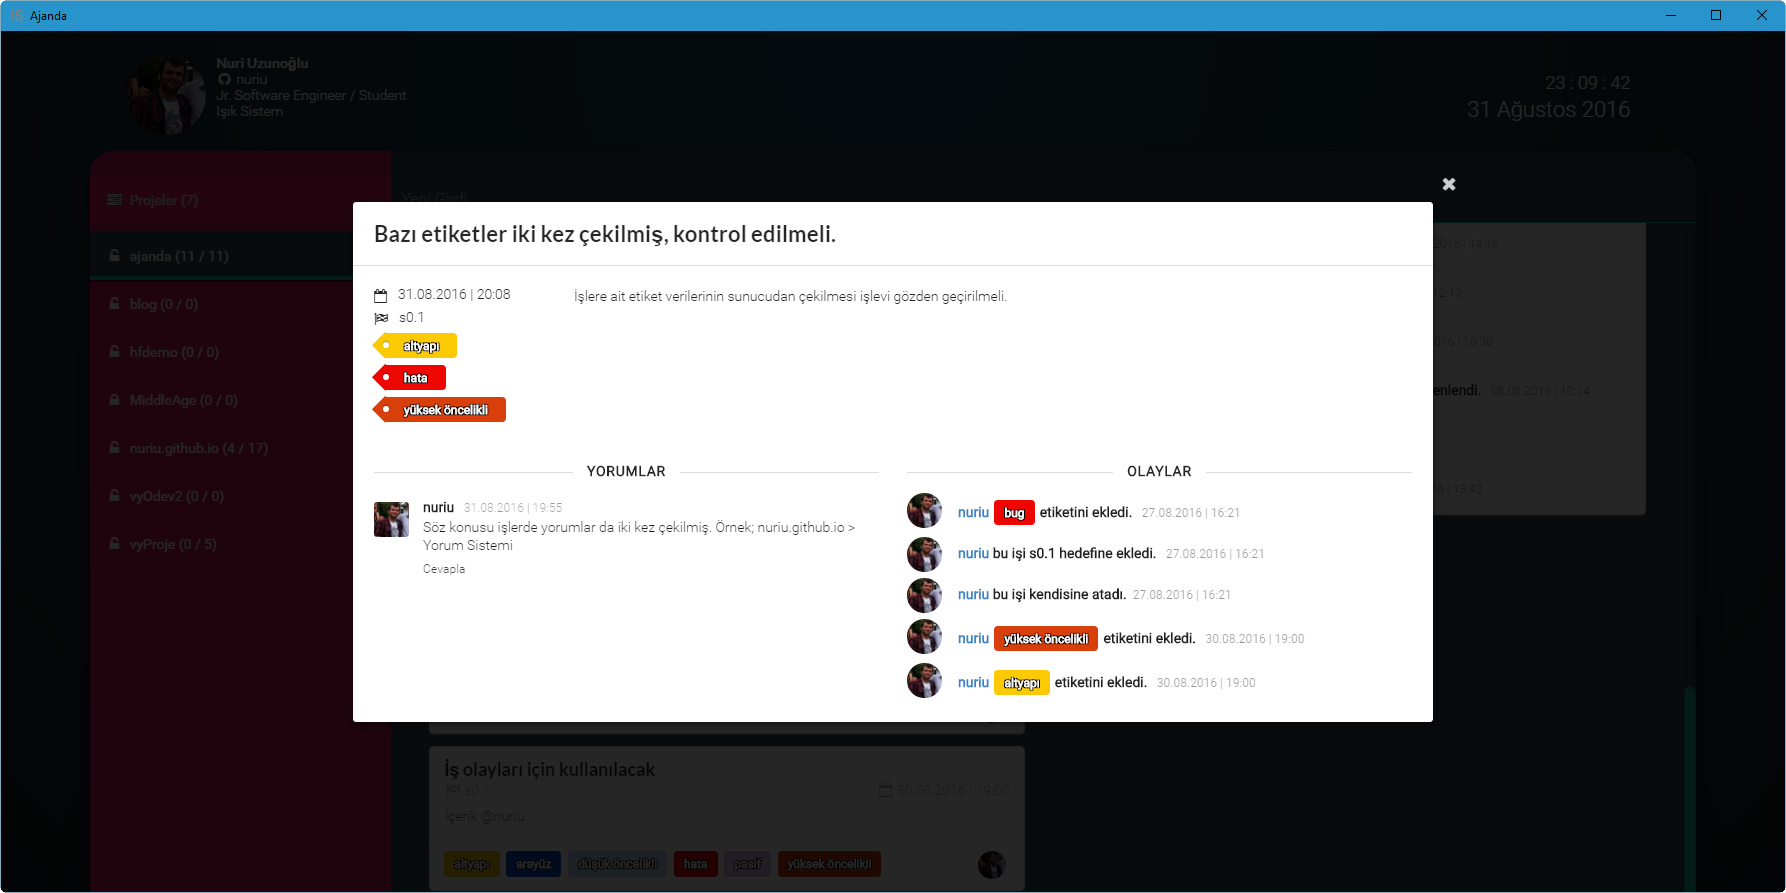
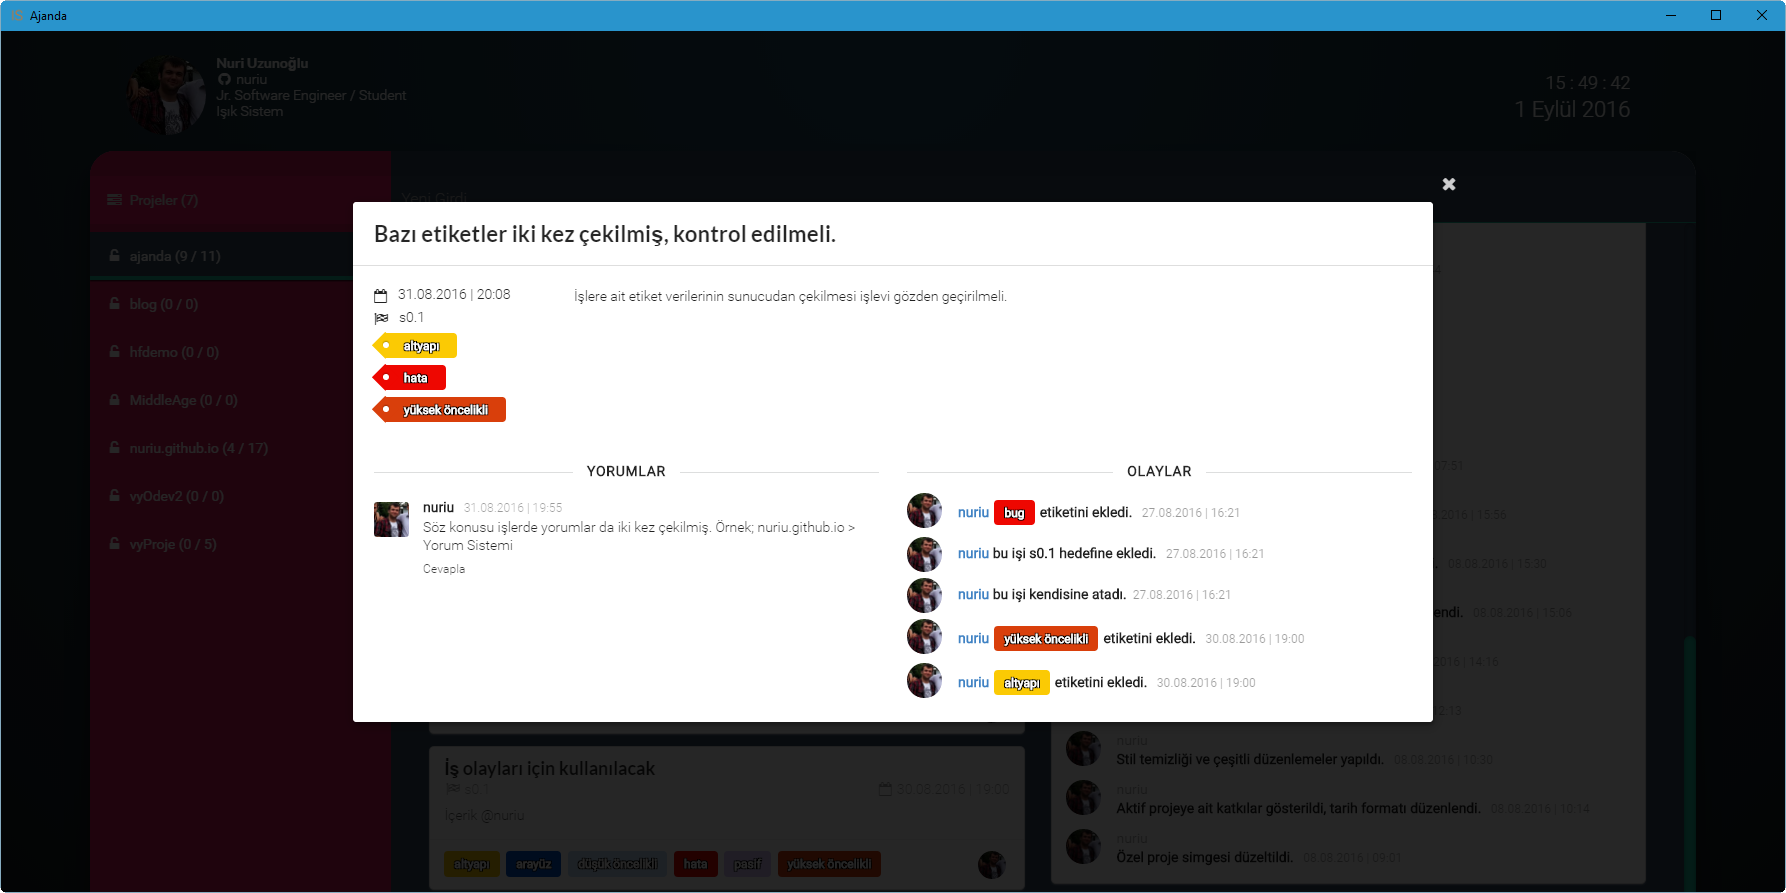
:white_check_mark: İşe ait veri çekimindeki hata düzeltildi.
Fixes #2

Changed region(s): [[0.5851, 0.5745, 0.9239, 0.9978]]

diff --git a/app/src/veri.ts b/app/src/veri.ts
@@ -98,8 +98,10 @@ function gitHubtanTokenIste(secenekler: any, kod: any) {
         client_secret: secenekler.istemci_sir,
         code: kod,
     }).done(function (icerik: string, durum: string) {
+        /* token
         console.log(durum);
         console.log(icerik.slice(icerik.search("=") + 1, icerik.search("&")));
+        */
 
         if (durum === "success") {
             window.localStorage.setItem("githubtoken", icerik.slice(icerik.search("=") + 1, icerik.search("&")));
@@ -162,7 +164,7 @@ function isBilgileriniAl() {
             });
         }, 4000);
 
-        console.log(KULLANICI.Projeler[i]);
+        // console.log(KULLANICI.Projeler[i]);
     }
 }
 
@@ -199,25 +201,27 @@ function acikIslerinBilgileriniAl(proje: Proje) {
                         new GithubTarihi(isler[j].milestone.closed_at)
                     );
                 } else {
-                    if (isler[j].milestone.state === "open") {
-                        proje.Isler[j].Hedef = new Hedef(
-                            isler[j].milestone.title,
-                            isler[j].milestone.number,
-                            "Kapalı",
-                            isler[j].milestone.creator.login,
-                            isler[j].milestone.description,
-                            isler[j].milestone.open_issues,
-                            isler[j].milestone.closed_issues,
-                            new GithubTarihi(isler[j].milestone.due_on),
-                            new GithubTarihi(isler[j].milestone.created_at),
-                            new GithubTarihi(isler[j].milestone.updated_at),
-                            new GithubTarihi(isler[j].milestone.closed_at)
-                        );
-                    }
-
+                    proje.Isler[j].Hedef = new Hedef(
+                        isler[j].milestone.title,
+                        isler[j].milestone.number,
+                        "Kapalı",
+                        isler[j].milestone.creator.login,
+                        isler[j].milestone.description,
+                        isler[j].milestone.open_issues,
+                        isler[j].milestone.closed_issues,
+                        new GithubTarihi(isler[j].milestone.due_on),
+                        new GithubTarihi(isler[j].milestone.created_at),
+                        new GithubTarihi(isler[j].milestone.updated_at),
+                        new GithubTarihi(isler[j].milestone.closed_at)
+                    );
                 }
+            }
 
+            if (proje.Isler[j].Yorumlar.length < 1) {
                 iseAitYorumlariAl(proje.Isler[j]);
+            }
+
+            if (proje.Isler[j].Olaylar.length < 1) {
                 iseAitOlaylariAl(proje.Isler[j]);
             }
         }
@@ -235,7 +239,7 @@ function kapaliIslerinBilgileriniAl(proje: Proje) {
 
             // Etiketler
             for (let k = 0; k < isler[j].labels.length; k++) {
-                proje.Isler[j].Etiketler.push(
+                proje.Isler[proje.Isler.length - 1].Etiketler.push(
                     new Etiket(proje.Isler[j], isler[j].labels[k].name, isler[j].labels[k].color)
                 );
             }
@@ -243,7 +247,7 @@ function kapaliIslerinBilgileriniAl(proje: Proje) {
             // Hedef
             if (isler[j].milestone) {
                 if (isler[j].milestone.state === "open") {
-                    proje.Isler[j].Hedef = new Hedef(
+                    proje.Isler[proje.Isler.length - 1].Hedef = new Hedef(
                         isler[j].milestone.title,
                         isler[j].milestone.number,
                         "Açık",
@@ -257,27 +261,29 @@ function kapaliIslerinBilgileriniAl(proje: Proje) {
                         new GithubTarihi(isler[j].milestone.closed_at)
                     );
                 } else {
-                    if (isler[j].milestone.state === "open") {
-                        proje.Isler[j].Hedef = new Hedef(
-                            isler[j].milestone.title,
-                            isler[j].milestone.number,
-                            "Kapalı",
-                            isler[j].milestone.creator.login,
-                            isler[j].milestone.description,
-                            isler[j].milestone.open_issues,
-                            isler[j].milestone.closed_issues,
-                            new GithubTarihi(isler[j].milestone.due_on),
-                            new GithubTarihi(isler[j].milestone.created_at),
-                            new GithubTarihi(isler[j].milestone.updated_at),
-                            new GithubTarihi(isler[j].milestone.closed_at)
-                        );
-                    }
-
+                    proje.Isler[proje.Isler.length - 1].Hedef = new Hedef(
+                        isler[j].milestone.title,
+                        isler[j].milestone.number,
+                        "Kapalı",
+                        isler[j].milestone.creator.login,
+                        isler[j].milestone.description,
+                        isler[j].milestone.open_issues,
+                        isler[j].milestone.closed_issues,
+                        new GithubTarihi(isler[j].milestone.due_on),
+                        new GithubTarihi(isler[j].milestone.created_at),
+                        new GithubTarihi(isler[j].milestone.updated_at),
+                        new GithubTarihi(isler[j].milestone.closed_at)
+                    );
                 }
             }
 
-            iseAitYorumlariAl(proje.Isler[j]);
-            iseAitOlaylariAl(proje.Isler[j]);
+            if (proje.Isler[j].Yorumlar.length < 1) {
+                iseAitYorumlariAl(proje.Isler[proje.Isler.length - 1]);
+            }
+
+            if (proje.Isler[j].Olaylar.length < 1) {
+                iseAitOlaylariAl(proje.Isler[proje.Isler.length - 1]);
+            }
         }
     });
 }

diff --git a/app/src/is.ts b/app/src/is.ts
@@ -63,8 +63,6 @@ export class Is {
                     </div>\
                 </div>";
 
-        // ifade += "<div class='ui horizontal divider'>Olaylar</div>";
-
         ifade += "<div class='row'><div class='eight wide column'><div class='ui horizontal divider'>Yorumlar</div>" +
             this.yorumlariYazdir() + "</div>\
             <div class='eight wide column' ><div class='ui horizontal divider'>Olaylar</div>" + this.olaylariYazdir() + "</div>\
@@ -72,9 +70,7 @@ export class Is {
 
         document.getElementById("isDetaylari").innerHTML = ifade;
 
-        $('.long.modal').modal('show');
-
-
+        $(".long.modal").modal("show");
     }
 
     public ozetiYazdir(yerID: string) {
@@ -177,10 +173,10 @@ export class Is {
                                 </div>\
                                 <div class='content'>\
                                     <div class='summary'>\
-                                        <a class='user'>" + olay.Aktor + "</a>\
-                                        <div class='ui label etiketYazi' style='background-color: #" + olay.Etiket.Renk + "; color: white;'>"
+                                    <a class='user'>" + olay.Aktor + "</a>\
+                                    <div class='ui label etiketYazi' style='background-color: #" + olay.Etiket.Renk + "; color: white;'>"
                         + olay.Etiket.Ad + "</div> etiketini kaldırdı.\
-                                        <div class='date'>" + olay.GerceklesmeTarihi.Tarih + "</div></div></div></div>";
+                                    <div class='date'>" + olay.GerceklesmeTarihi.Tarih + "</div></div></div></div>";
                     break;
 
                 case Turler.KisiyeAtama:

diff --git a/index.js b/index.js
@@ -31,11 +31,11 @@ uygulama.on("ready", () => {
 uygulama.on("window-all-closed", () => {
     if (process.platform !== 'darwin') {
         uygulama.quit();
-    };
+    }
 });
 
 uygulama.on("activate", () => {
     if (anaPencere === null) {
         pencereyiOlustur();
-    };
+    }
 });
